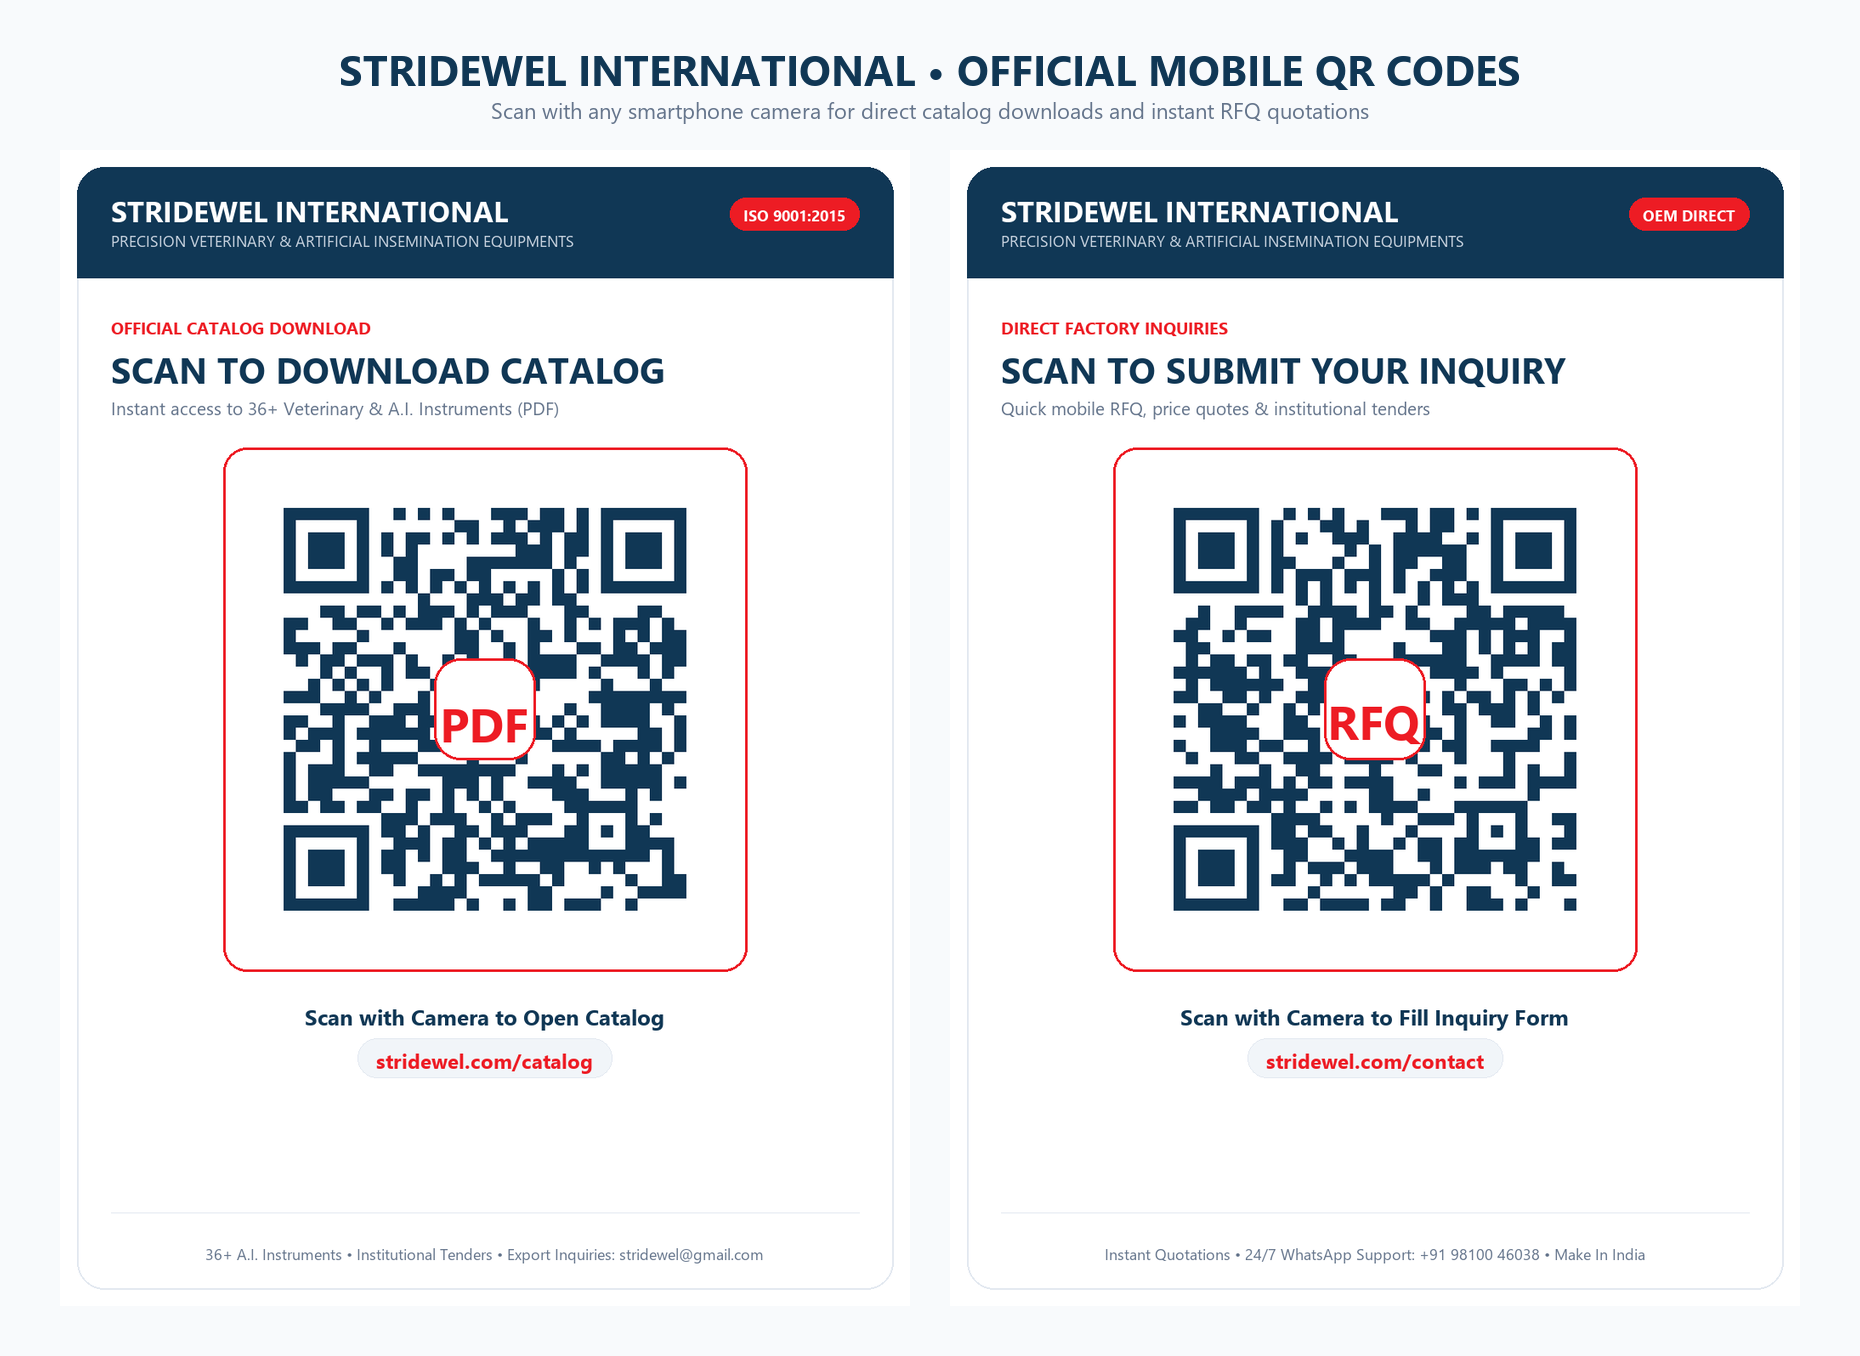
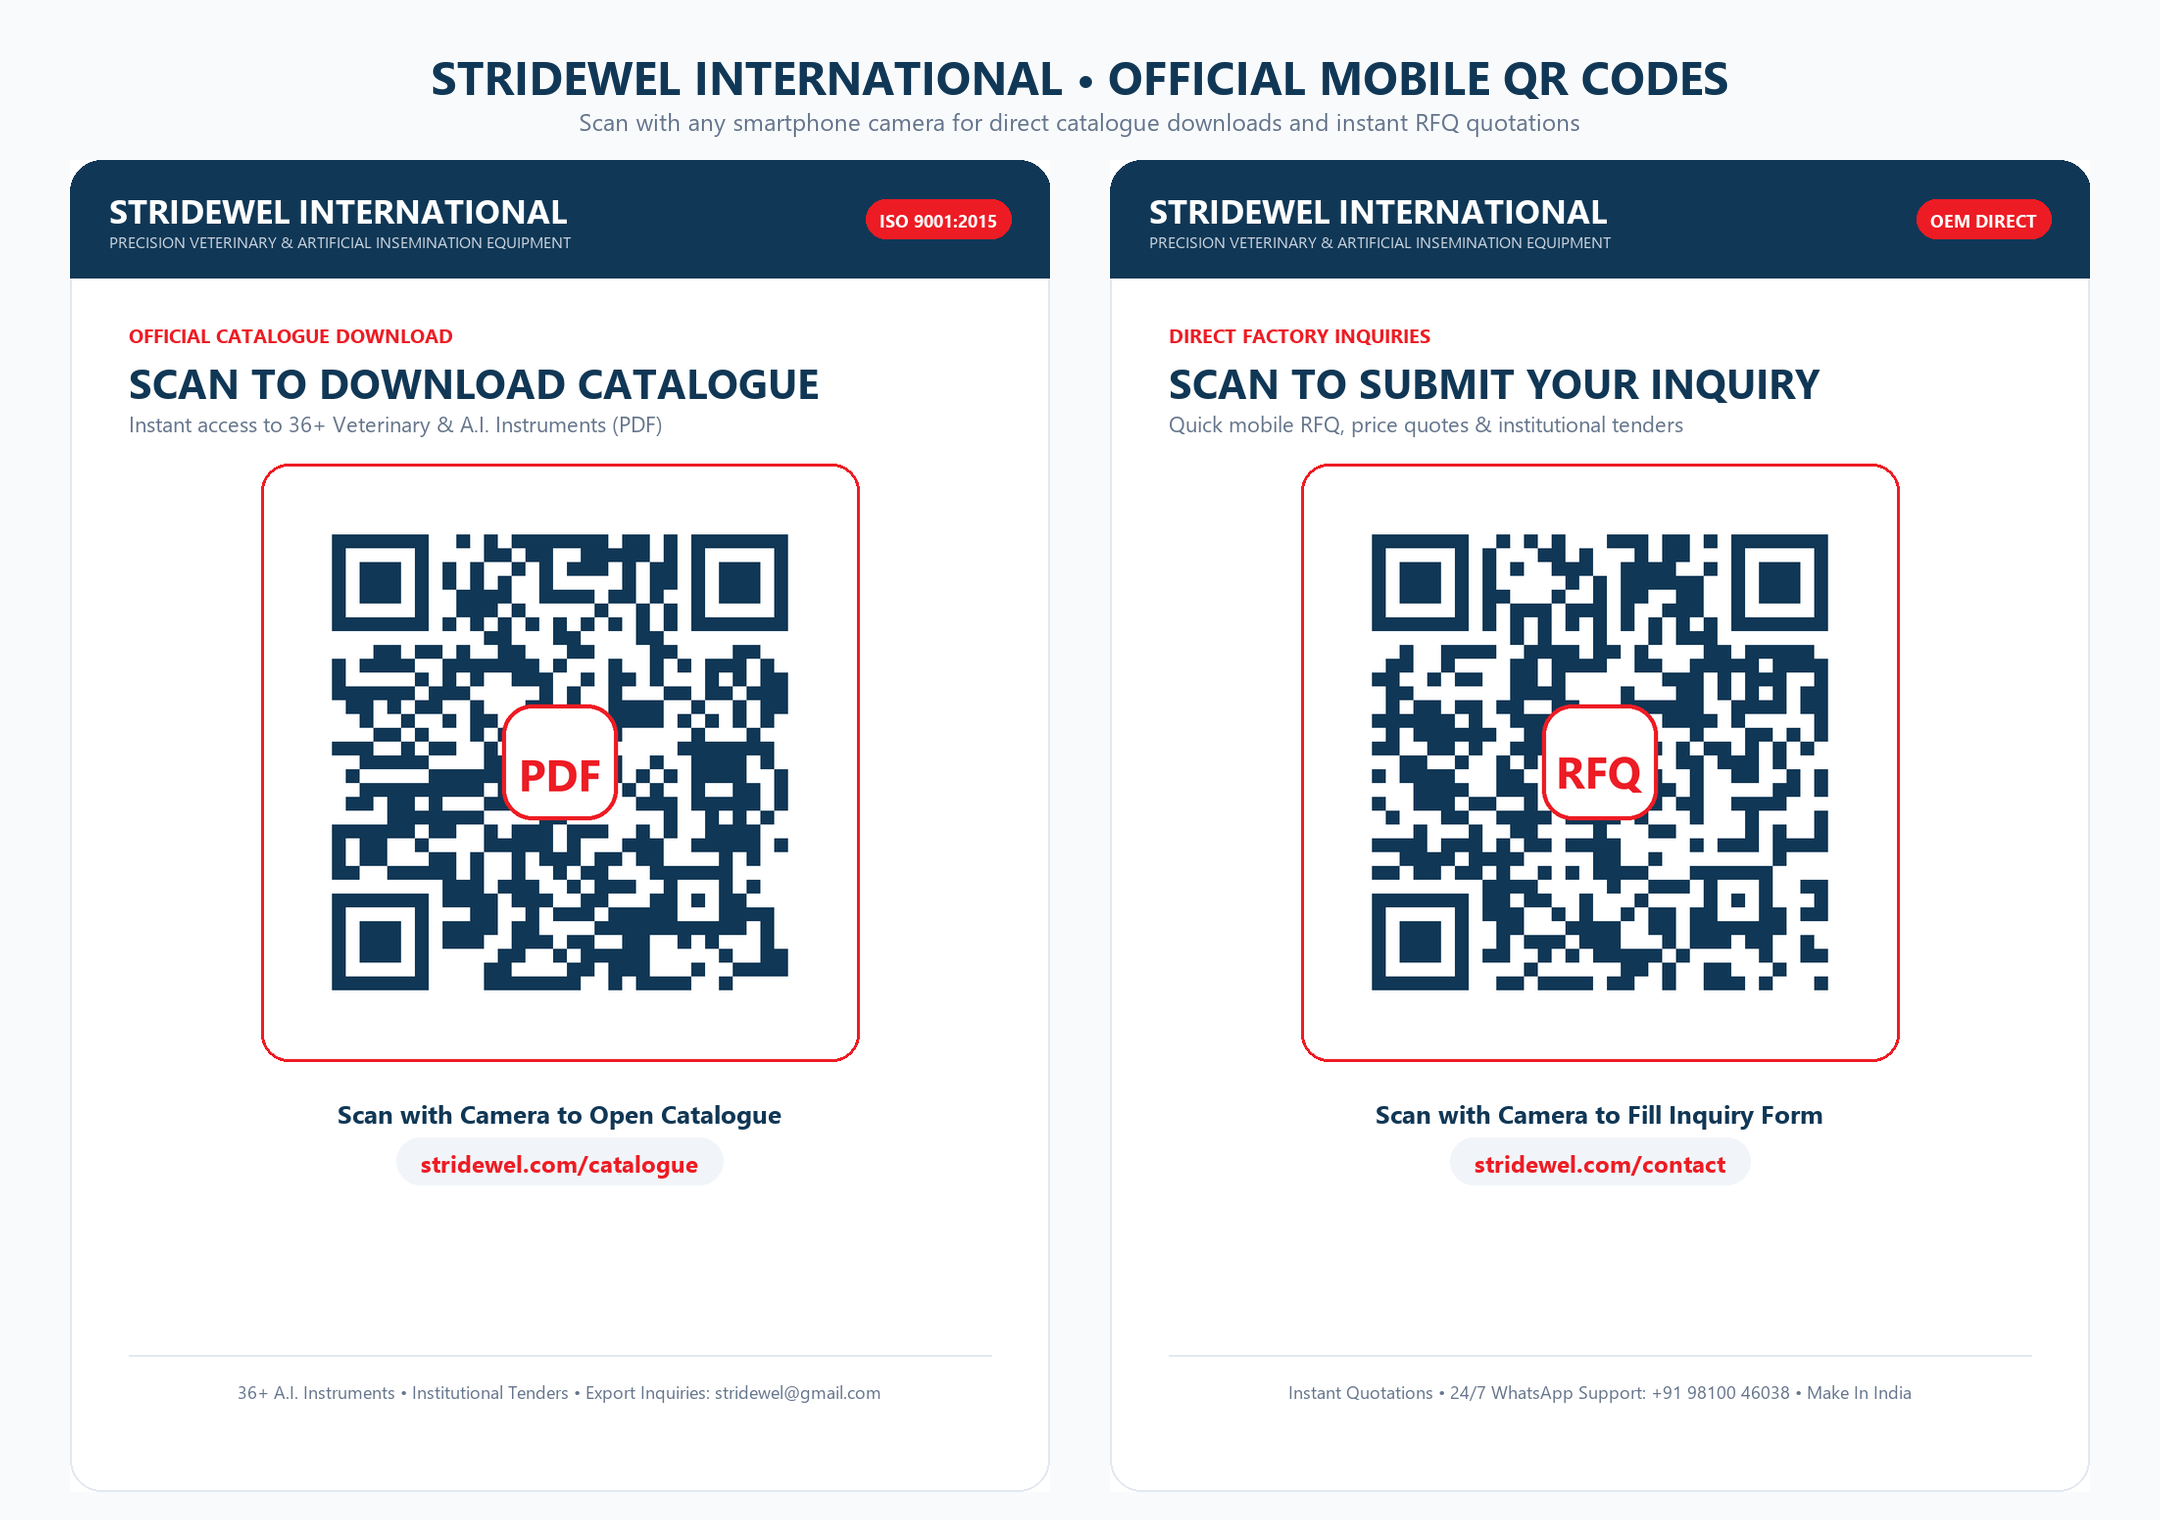
fix: correct CATALOGUE spelling across QR code assets and configure /catalogue route

diff --git a/generate_qr_codes.py b/generate_qr_codes.py
@@ -1,0 +1,256 @@
+import os
+import qrcode
+from PIL import Image, ImageDraw, ImageFont
+
+OUTPUT_DIR = os.path.join(os.path.dirname(__file__), "assets", "images", "qr-codes")
+os.makedirs(OUTPUT_DIR, exist_ok=True)
+
+# Brand Colors
+COLOR_PRIMARY = (16, 55, 85)     # Deep Stridewel Navy (#103755)
+COLOR_RED = (237, 28, 36)        # Stridewel Vibrant Red (#ed1c24)
+COLOR_DARK = (15, 23, 42)        # Slate Dark (#0f172a)
+COLOR_MUTED = (100, 116, 139)    # Slate 500 (#64748b)
+COLOR_BG = (248, 250, 252)       # Soft Slate White (#f8fafc)
+COLOR_CARD_BG = (255, 255, 255)
+COLOR_BORDER = (226, 232, 240)   # Slate 200
+
+# Fonts
+def get_font(size, bold=False):
+    font_names = ["segoeuib.ttf", "arialbd.ttf"] if bold else ["segoeui.ttf", "arial.ttf"]
+    for name in font_names:
+        p = os.path.join("C:/Windows/Fonts", name)
+        if os.path.exists(p):
+            try:
+                return ImageFont.truetype(p, size)
+            except Exception:
+                pass
+    return ImageFont.load_default()
+
+def draw_rounded_rect(draw, bounds, radius, fill, outline=None, width=1):
+    draw.rounded_rectangle(bounds, radius=radius, fill=fill, outline=outline, width=width)
+
+def generate_base_qr(url, color_dark=COLOR_PRIMARY, bg_color=(255, 255, 255), box_size=16):
+    qr = qrcode.QRCode(
+        version=None,
+        error_correction=qrcode.constants.ERROR_CORRECT_H,
+        box_size=box_size,
+        border=3,
+    )
+    qr.add_data(url)
+    qr.make(fit=True)
+    img = qr.make_image(fill_color=color_dark, back_color=bg_color).convert("RGBA")
+    return img
+
+def add_center_icon(qr_img, icon_type="catalogue"):
+    w, h = qr_img.size
+    icon_box_size = int(w * 0.22)
+    center_box = Image.new("RGBA", (icon_box_size, icon_box_size), (0, 0, 0, 0))
+    cdraw = ImageDraw.Draw(center_box)
+    
+    # Rounded white background with red border
+    cdraw.rounded_rectangle(
+        [2, 2, icon_box_size - 2, icon_box_size - 2],
+        radius=int(icon_box_size * 0.26),
+        fill=(255, 255, 255, 255),
+        outline=COLOR_RED,
+        width=int(icon_box_size * 0.04)
+    )
+    
+    font_bold = get_font(int(icon_box_size * 0.38), bold=True)
+    text = "PDF" if icon_type == "catalogue" else "RFQ"
+    tb = cdraw.textbbox((0, 0), text, font=font_bold)
+    tw = tb[2] - tb[0]
+    th = tb[3] - tb[1]
+    cdraw.text(
+        ((icon_box_size - tw) // 2, (icon_box_size - th) // 2 - int(icon_box_size * 0.03)),
+        text,
+        fill=COLOR_RED,
+        font=font_bold
+    )
+    
+    pos = ((w - icon_box_size) // 2, (h - icon_box_size) // 2)
+    qr_img.paste(center_box, pos, center_box)
+    return qr_img
+
+def build_presentation_card(
+    qr_img,
+    pre_title,
+    main_title,
+    sub_title,
+    bottom_cta,
+    url_display,
+    badge_text="ISO 9001:2015",
+    footer_text=""
+):
+    CARD_W = 1000
+    CARD_H = 1360
+    card = Image.new("RGBA", (CARD_W, CARD_H), (255, 255, 255, 255))
+    draw = ImageDraw.Draw(card)
+    
+    # Outer Card Border with subtle rounded corner
+    draw_rounded_rect(draw, [0, 0, CARD_W - 1, CARD_H - 1], radius=32, fill=None, outline=COLOR_BORDER, width=2)
+    
+    # 1. Top Header Banner
+    HEADER_H = 120
+    draw.rounded_rectangle([0, 0, CARD_W, HEADER_H], radius=32, fill=COLOR_PRIMARY)
+    draw.rectangle([0, 60, CARD_W, HEADER_H], fill=COLOR_PRIMARY) # flatten bottom corners
+    
+    font_brand = get_font(34, bold=True)
+    draw.text((40, 28), "STRIDEWEL INTERNATIONAL", fill=(255, 255, 255), font=font_brand)
+    
+    font_tagline = get_font(16, bold=False)
+    draw.text((40, 72), "PRECISION VETERINARY & ARTIFICIAL INSEMINATION EQUIPMENT", fill=(203, 213, 225), font=font_tagline)
+    
+    # Top Right ISO / OEM Badge
+    badge_font = get_font(18, bold=True)
+    tb = draw.textbbox((0, 0), badge_text, font=badge_font)
+    bw = tb[2] - tb[0] + 28
+    bh = 40
+    bx = CARD_W - bw - 40
+    by = 40
+    draw_rounded_rect(draw, [bx, by, bx + bw, by + bh], radius=20, fill=COLOR_RED)
+    draw.text((bx + 14, by + 9), badge_text, fill=(255, 255, 255), font=badge_font)
+    
+    # 2. Main Title Section
+    font_pre = get_font(20, bold=True)
+    draw.text((60, 165), pre_title.upper(), fill=COLOR_RED, font=font_pre)
+    
+    font_title = get_font(42, bold=True)
+    draw.text((60, 198), main_title, fill=COLOR_PRIMARY, font=font_title)
+    
+    font_sub = get_font(22, bold=False)
+    draw.text((60, 254), sub_title, fill=COLOR_MUTED, font=font_sub)
+    
+    # 3. QR Code Framing
+    FRAME_SIZE = 610
+    FX = (CARD_W - FRAME_SIZE) // 2
+    FY = 310
+    
+    # Soft inner background container
+    draw_rounded_rect(draw, [FX, FY, FX + FRAME_SIZE, FY + FRAME_SIZE], radius=28, fill=(255, 255, 255), outline=COLOR_RED, width=3)
+    
+    # Resize QR to fit frame with clean margin
+    QR_TARGET_SIZE = 550
+    resized_qr = qr_img.resize((QR_TARGET_SIZE, QR_TARGET_SIZE), Image.Resampling.LANCZOS)
+    QR_X = (CARD_W - QR_TARGET_SIZE) // 2
+    QR_Y = FY + (FRAME_SIZE - QR_TARGET_SIZE) // 2
+    card.paste(resized_qr, (QR_X, QR_Y), resized_qr)
+    
+    # 4. Bottom Call To Action
+    font_cta = get_font(26, bold=True)
+    tb_cta = draw.textbbox((0, 0), bottom_cta, font=font_cta)
+    cta_w = tb_cta[2] - tb_cta[0]
+    draw.text(((CARD_W - cta_w) // 2, 955), bottom_cta, fill=COLOR_PRIMARY, font=font_cta)
+    
+    # Web URL Pill
+    font_url = get_font(24, bold=True)
+    tb_u = draw.textbbox((0, 0), url_display, font=font_url)
+    uw = tb_u[2] - tb_u[0] + 50
+    uh = 48
+    ux = (CARD_W - uw) // 2
+    uy = 998
+    draw_rounded_rect(draw, [ux, uy, ux + uw, uy + uh], radius=24, fill=(241, 245, 249))
+    draw.text(((CARD_W - (tb_u[2] - tb_u[0])) // 2, uy + 10), url_display, fill=COLOR_RED, font=font_url)
+    
+    # Decorative divider
+    draw.line([60, 1220, CARD_W - 60, 1220], fill=(226, 232, 240), width=2)
+    
+    # 5. Footer Information
+    font_foot = get_font(18, bold=False)
+    tb_f = draw.textbbox((0, 0), footer_text, font=font_foot)
+    fw = tb_f[2] - tb_f[0]
+    draw.text(((CARD_W - fw) // 2, 1245), footer_text, fill=COLOR_MUTED, font=font_foot)
+    
+    return card
+
+def main():
+    print("Generating High-Resolution Stridewel QR Codes with correct British/Indian spelling 'CATALOGUE'...")
+    
+    # 1. CATALOGUE DOWNLOAD QR CODE
+    catalogue_url = "https://stridewel.com/catalogue"
+    qr_catalogue = generate_base_qr(catalogue_url, color_dark=COLOR_PRIMARY, box_size=20)
+    qr_catalogue = add_center_icon(qr_catalogue, icon_type="catalogue")
+    
+    # Save standalone clean QR
+    clean_cat_path = os.path.join(OUTPUT_DIR, "qr_catalogue_clean.png")
+    qr_catalogue.save(clean_cat_path, "PNG", dpi=(300, 300))
+    # Keep legacy catalog filename as alias
+    qr_catalogue.save(os.path.join(OUTPUT_DIR, "qr_catalog_clean.png"), "PNG", dpi=(300, 300))
+    print(f"Saved: {clean_cat_path}")
+    
+    # Build Catalogue Presentation Card
+    card_catalogue = build_presentation_card(
+        qr_img=qr_catalogue,
+        pre_title="Official Catalogue Download",
+        main_title="SCAN TO DOWNLOAD CATALOGUE",
+        sub_title="Instant access to 36+ Veterinary & A.I. Instruments (PDF)",
+        bottom_cta="Scan with Camera to Open Catalogue",
+        url_display="stridewel.com/catalogue",
+        badge_text="ISO 9001:2015",
+        footer_text="36+ A.I. Instruments • Institutional Tenders • Export Inquiries: stridewel@gmail.com"
+    )
+    card_cat_path = os.path.join(OUTPUT_DIR, "qr_catalogue_badge.png")
+    card_catalogue.save(card_cat_path, "PNG", dpi=(300, 300))
+    # Also update qr_catalog_badge.png with the corrected spelling
+    card_catalogue.save(os.path.join(OUTPUT_DIR, "qr_catalog_badge.png"), "PNG", dpi=(300, 300))
+    print(f"Saved: {card_cat_path}")
+    
+    # 2. CONTACT / INQUIRY FORM QR CODE
+    contact_url = "https://stridewel.com/contact"
+    qr_contact = generate_base_qr(contact_url, color_dark=COLOR_PRIMARY, box_size=20)
+    qr_contact = add_center_icon(qr_contact, icon_type="contact")
+    
+    # Save standalone clean Contact QR
+    clean_contact_path = os.path.join(OUTPUT_DIR, "qr_contact_clean.png")
+    qr_contact.save(clean_contact_path, "PNG", dpi=(300, 300))
+    print(f"Saved: {clean_contact_path}")
+    
+    # Build Contact Presentation Card
+    card_contact = build_presentation_card(
+        qr_img=qr_contact,
+        pre_title="Direct Factory Inquiries",
+        main_title="SCAN TO SUBMIT YOUR INQUIRY",
+        sub_title="Quick mobile RFQ, price quotes & institutional tenders",
+        bottom_cta="Scan with Camera to Fill Inquiry Form",
+        url_display="stridewel.com/contact",
+        badge_text="OEM DIRECT",
+        footer_text="Instant Quotations • 24/7 WhatsApp Support: +91 98100 46038 • Make In India"
+    )
+    card_contact_path = os.path.join(OUTPUT_DIR, "qr_contact_badge.png")
+    card_contact.save(card_contact_path, "PNG", dpi=(300, 300))
+    print(f"Saved: {card_contact_path}")
+    
+    # 3. COMBINED PRESENTATION BANNER (Both side-by-side)
+    COMB_W = 2160
+    COMB_H = 1520
+    combined = Image.new("RGBA", (COMB_W, COMB_H), COLOR_BG)
+    cdraw = ImageDraw.Draw(combined)
+    
+    font_main_h = get_font(46, bold=True)
+    top_title = "STRIDEWEL INTERNATIONAL • OFFICIAL MOBILE QR CODES"
+    tb_m = cdraw.textbbox((0, 0), top_title, font=font_main_h)
+    cdraw.text(((COMB_W - (tb_m[2] - tb_m[0])) // 2, 45), top_title, fill=COLOR_PRIMARY, font=font_main_h)
+    
+    font_main_sub = get_font(24, bold=False)
+    sub_title_text = "Scan with any smartphone camera for direct catalogue downloads and instant RFQ quotations"
+    tb_ms = cdraw.textbbox((0, 0), sub_title_text, font=font_main_sub)
+    cdraw.text(((COMB_W - (tb_ms[2] - tb_ms[0])) // 2, 105), sub_title_text, fill=COLOR_MUTED, font=font_main_sub)
+    
+    # Paste the two cards
+    scaled_card_w = 980
+    scaled_card_h = int(1360 * (scaled_card_w / 1000))
+    
+    c1 = card_catalogue.resize((scaled_card_w, scaled_card_h), Image.Resampling.LANCZOS)
+    c2 = card_contact.resize((scaled_card_w, scaled_card_h), Image.Resampling.LANCZOS)
+    
+    combined.paste(c1, (70, 160), c1)
+    combined.paste(c2, (1110, 160), c2)
+    
+    combined_path = os.path.join(OUTPUT_DIR, "qr_codes_combined.png")
+    combined.save(combined_path, "PNG", dpi=(300, 300))
+    print(f"Saved: {combined_path}")
+    
+    print("\nALL QR CODES WITH CORRECTED 'CATALOGUE' SPELLING GENERATED SUCCESSFULLY!")
+
+if __name__ == "__main__":
+    main()

diff --git a/router.php b/router.php
@@ -93,11 +93,11 @@ if ($path === 'faq' || $path === 'faq.php') {
     exit;
 }
 
-if ($path === 'catalog' || $path === 'download-catalog') {
+if ($path === 'catalog' || $path === 'download-catalog' || $path === 'catalogue' || $path === 'download-catalogue') {
     $pdf = __DIR__ . '/uploads/catalog/stridewel_catalog_1789024165.pdf';
     if (file_exists($pdf)) {
         header('Content-Type: application/pdf');
-        header('Content-Disposition: inline; filename="Stridewel_Product_Catalog.pdf"');
+        header('Content-Disposition: inline; filename="Stridewel_Product_Catalogue.pdf"');
         readfile($pdf);
         exit;
     }
